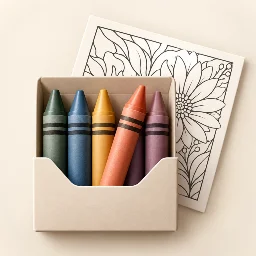
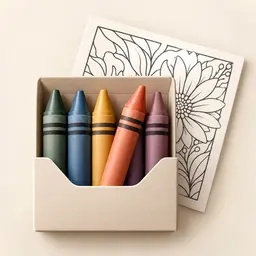
Congress Trade Detective and Calm Coloring Book now live on the App Store

diff --git a/src/Resume.jsx b/src/Resume.jsx
@@ -8,13 +8,13 @@ export const RESUME_PDF = "/Treena_Lynch_Resume.pdf";
 const STATS = [
   ["20+", "years building and supporting production software"],
   ["10M+", "transactions a year captured and balanced"],
-  ["4", "iOS apps built with AI (2 live, 2 in review)"],
+  ["4", "iOS apps built with AI, all live on the App Store"],
 ];
 
 const SKILLS = ["C#", "SQL", "JavaScript", "HTML/CSS", "SuiteScript / NetSuite", "ChatGPT", "Claude", "Prompt & context engineering", "AI output validation", "Edge-case testing", "Log analysis", "Sandbox & deployment validation"];
 
 const TIMELINE = [
-  ["2025 – Present", "Founder, Independent Developer", "Unconvinced.", "Ships iOS apps built with AI: Snapshot Puzzle and The Cut Card are live; Congress Trade Detective and Calm Coloring Book are in review. Tests what the AI built before users do."],
+  ["2025 – Present", "Founder, Independent Developer", "Unconvinced.", "Ships iOS apps built with AI: Snapshot Puzzle, The Cut Card, Congress Trade Detective and Calm Coloring Book are live on the App Store. Tests what the AI built before users do."],
   ["2021 – 2025", "Business Systems / NetSuite Developer", "Cologix", "SuiteScripts for business operations; production issue diagnosis through log analysis and validation; sandbox and deployment testing."],
   ["2018 – 2021", "NetSuite Developer", "Huppins", "Scripts for pricing, inventory and operational workflows; troubleshooting, validation and enhancements."],
   ["2004-2018 (15 years)", "Programmer", "World Wide Group", worldWideGroup.bullets],

diff --git a/src/apps.js b/src/apps.js
@@ -32,24 +32,24 @@ export const APPS = [
     name: "Congress Trade Detective",
     platform: "iPhone",
     tag: "STOCK Act data",
-    live: false,
+    live: true,
     summary: "Tracks the stock trades members of Congress disclose, and overlays the news of the time.",
-    icon: null,
-    shots: [],
+    icon: `${IMG}/congress-trade-detective-icon.webp`,
+    shots: [1, 2, 3].map((n) => `${IMG}/congress-trade-detective-${n}.webp`),
     page: "/apps/congress-trade-detective/",
-    store: null,
+    store: "https://apps.apple.com/us/app/congress-trade-detective/id6817971302",
   },
   {
     slug: "calm-coloring-book",
     name: "Calm Coloring Book",
     platform: "iPhone",
     tag: "Creative",
-    live: false,
+    live: true,
     summary: "Tap-to-fill and a freehand brush. No timers, no scores, no streaks.",
     icon: `${IMG}/calm-coloring-book-icon.webp`,
-    shots: [],
+    shots: [1, 2, 3].map((n) => `${IMG}/calm-coloring-book-${n}.webp`),
     page: "/apps/calm-coloring-book/",
-    store: null,
+    store: "https://apps.apple.com/us/app/calm-coloring-book-for-adults/id6817875470",
   },
 ];
 

diff --git a/content/cases/congress-trade-detective.md b/content/cases/congress-trade-detective.md
@@ -1,6 +1,6 @@
 ---
 title: Congress Trade Detective
-summary: An AI-built iOS app tracking congressional stock trades, currently in App Store review.
+summary: An AI-built iOS app tracking congressional stock trades, live on the App Store since October 2026.
 date: 2026-10-05
 draft: true
 ---
